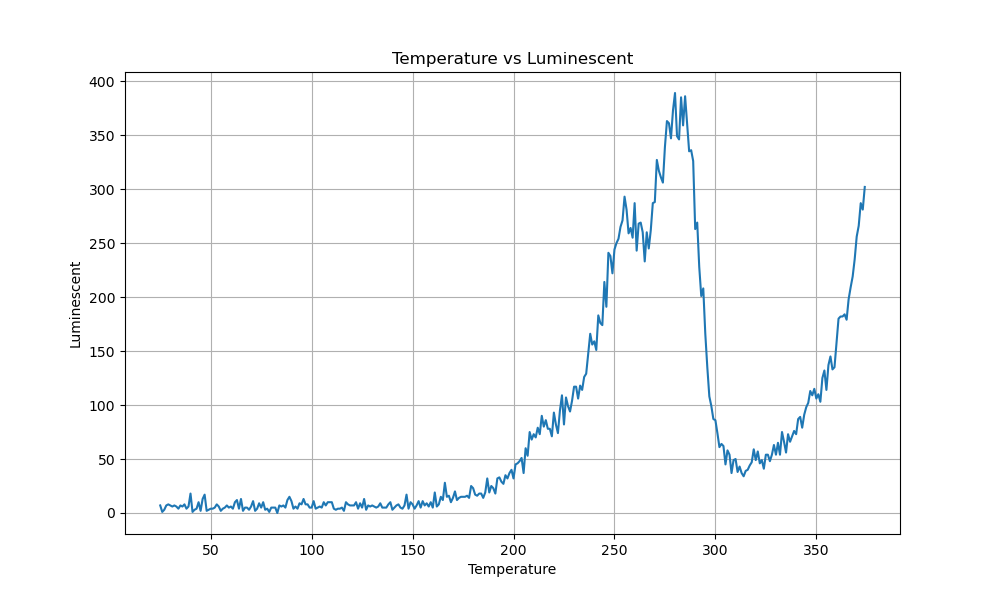
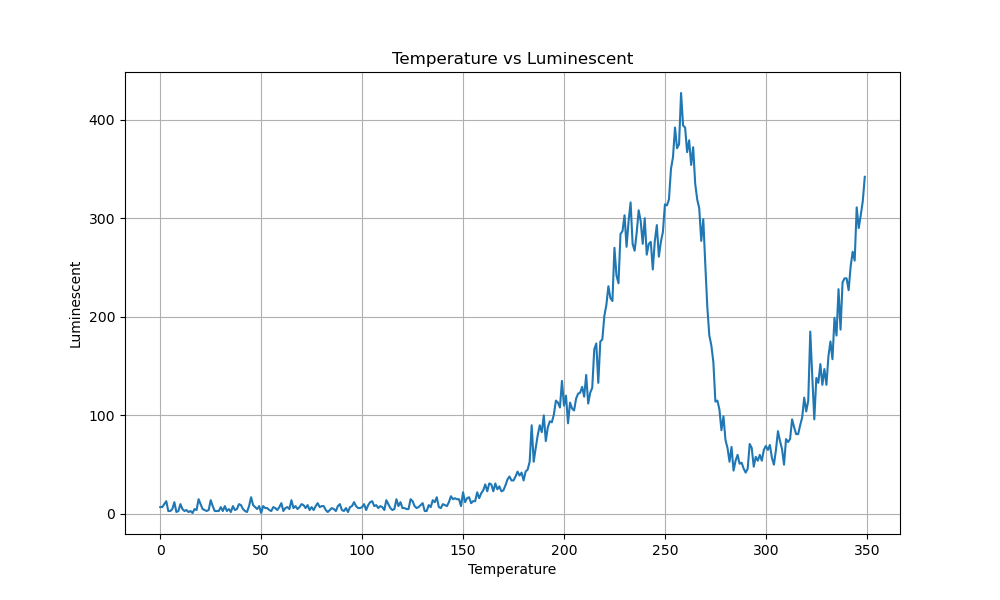
-- interesting upgrade trial

diff --git a/Curve_clasifier_client/templates/index.html b/Curve_clasifier_client/templates/index.html
@@ -13,8 +13,32 @@
 <body>
     <form action="/home" method="POST">
         <img src="Curve_clasifier_client/static/image.png" class="center">
+        
         <p class="center">Curve ID: {{ curve_id }}</p>
+        <table class="table table-bordered mt-3" border="1">
+            <thead>
+                <tr>
+                    <th>HIGH</th>
+                    <th>LOW</th>
+                    <th>NPOINTS</th>
+                    <th>RATE</th>
+                    <th>AN_TEMP</th>
+                    <th>AN_TIME</th>
+                </tr>
+            </thead>
+            <tbody>
+                <tr>
+                    <td id="high_value"></td>
+                    <td id="low_value"></td>
+                    <td id="npoints_value"></td>
+                    <td id="rate_value"></td>
+                    <td id="an_temp_value"></td>
+                    <td id="an_time_value"></td>
+                </tr>
+            </tbody>
+        </table>
         <p>{{ statement }}</p>
+
         <input type="hidden" name="curve_id" value="{{ curve_id }}">
         <input type="submit" name="choice" value="True" style="background-color: green">
         <input type="submit" name="choice" value="False" style="background-color: red">

diff --git a/Curve_clasifier_client/app.py b/Curve_clasifier_client/app.py
@@ -6,6 +6,22 @@ import pandas as pd
 import os
 import json
 import numpy as np
+import random
+
+def generate_curve_points(curve_name, data):
+    # Extract metadata
+    metadata = data[curve_name]['curve_metadata']
+    
+    # Extract 'LOW', 'HIGH', and 'NPOINTS' values
+    low = metadata['LOW']
+    high = metadata['HIGH']
+    npoints = metadata['NPOINTS']
+    
+    # Generate a list with evenly distributed points
+    points = np.linspace(low, high, npoints).tolist()
+    
+    return points
+
 
 app = Flask(__name__, static_url_path='/Curve_clasifier_client/static')
 app.config['WTF_CSRF_ENABLED'] = False
@@ -26,69 +42,72 @@ def intro(): #add a status page to get to know the status of the corrected datas
 @app.route('/home', methods=['GET', 'POST'])
 def home():
     global user_responses
+    global sampled_curve_names
     if 'username' not in session or 'session_size' not in session:
         return redirect(url_for('intro'))
         # Read data from .csv or .json
     file_path = 'Curve_clasifier_client/data/input.json'
     extension = '.json'
-    if extension == '.csv':
-        df = pd.read_csv('data/input.csv')
-    elif extension == '.json':
+    # if extension == '.csv':
+    #     df = pd.read_csv('data/input.csv')
+    if extension == '.json':
         with open(file_path) as f:
             data = json.load(f)
-    statement = 'Presta?'
-    # Extract sub-item
-    sub_item_data = np.array(data['curve_data']).T
+    statement = 'Presta?' # what to measure, what statement is should be evaluated?
+  
+    # Sample curves given the session size
+    session_size = min(50, len(data))  # Ensure session size is not larger than total number of curves
+    sampled_curve_names = random.sample(list(data.keys()), session_size)
+
+    # Collect curve data for sampled curves
+    sub_item_data = np.array([data[curve_name]['curve_data'] for curve_name in sampled_curve_names]).T
 
     # Create data frame
-    columns = data['curve_metadata']['SAMPLE_ID']
-    df = pd.DataFrame(sub_item_data, columns = columns)
-    #df = pd.read_json('data/input.json',) #add headers as the curve ids stored
-    temperature = [i for i in range(25,375)]
+    df = pd.DataFrame(sub_item_data, columns=sampled_curve_names)
+
+    # Iterate over sampled curves and process their metadata
+    for curve_name in sampled_curve_names: # instead of iterating here address the item via (user_response varivable)
+        # Extract metadata
+        metadata = data[curve_name]['curve_metadata']
+        
+        # Extract values
+        high_value = metadata['HIGH']
+        low_value = metadata['LOW']
+        npoints_value = metadata['NPOINTS']
+        rate_value = metadata['RATE']
+        an_temp_value = metadata['AN_TEMP']
+        an_time_value = metadata['AN_TIME']
+        
+        # Generate curve points
+        temperature = generate_curve_points(curve_name, data)
+        plt.figure(figsize=(10, 6))
+        plt.plot(temperature, df[curve_name])
+        plt.xlabel('Temperature')
+        plt.ylabel('Luminescent')
+        plt.title('Temperature vs Luminescent')
+        plt.grid(True)
+        plt.savefig('Curve_clasifier_client/static/image.png', format='png') # --  up to this part itworks, the page doesnt render
 
 
-    # # Determine which curves have been measured in previous sessions
-    # try:
-    #     df_out = pd.read_csv('output.csv')
-    #     measured_curves = df_out['curve_id'].unique()
-    # except FileNotFoundError:
-    #     measured_curves = []
+ 
 
-    # # Filter out the measured curves
-    # df = df[~df['curve_id'].isin(measured_curves)]
+
+
 
     if df.empty:
         return render_template('end.html')
 
-    # Select a curve to measure
-
-        #curve_id =  df.columns.iloc[0] #select the firs unmeasured curve
-    if len(user_responses) == 0:
-        curve_id =  list(df.columns)[0]
-    if len(user_responses) > 0:
-        curve_id =  list(df.columns)[len(user_responses)]  
-
-    #it
-    # Plot chart
-    plt.figure(figsize=(10, 6))
-    plt.plot(temperature, df[curve_id])
-    plt.xlabel('Temperature')
-    plt.ylabel('Luminescent')
-    plt.title('Temperature vs Luminescent')
-    plt.grid(True)
-    plt.savefig('Curve_clasifier_client/static/image.png', format='png') # --  up to this part itworks, the page doesnt render
-
-    #curve_id = 'your_curve_id'  # Replace with code to get curve id
+ 
     if request.method == 'POST':
         choice = request.form.get('choice')
         user_responses.append({
             "measured_attribute": choice,
             "username": session['username'],
             "session_size": session['session_size'],
-            "curve_id": curve_id
+            "curve_id": curve_name
         })
         #fix output file generation
-        if len(user_responses) % 5 == 0:  # if there are five new responses
+        if len(user_responses) % 5 == 0:  # save file only in the end of the session (?)
             try:
                 # try to read the existing file
                 df_out = pd.read_csv("Curve_clasifier_client/data/output.csv")
@@ -107,8 +126,9 @@ def home():
             return redirect(url_for('end'))
 
 
-    return render_template('index.html', curve_id=curve_id, statement=statement)
-
+    return render_template('index.html', curve_id=curve_name, statement=statement,
+                           high_value=high_value, low_value=low_value, npoints_value=npoints_value,
+                           rate_value=rate_value, an_temp_value=an_temp_value, an_time_value=an_time_value)
 
 @app.route('/end', methods=['GET'])
 def end():
